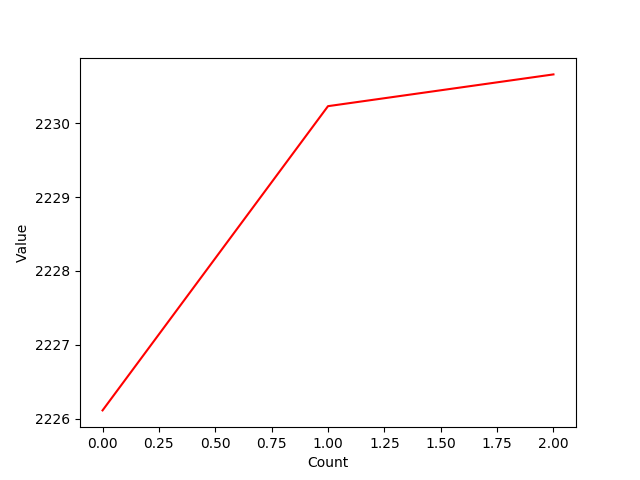
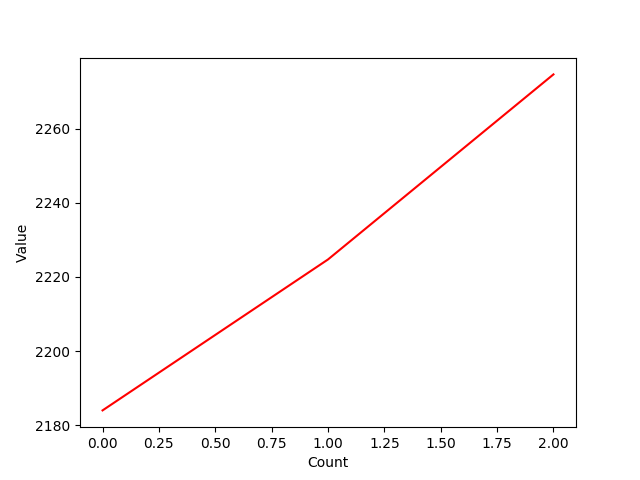
Automated Commision

diff --git a/sequential.py b/sequential.py
@@ -20,7 +20,7 @@ if __name__ == "__main__":
     
     for count in range(3):
         trend = moving_average(timeseries, 3)
-        print(timeseries.raw_datapoint(timeseries.raw_size() - 1) - trend[len(trend) - 1])
+        trend_close_diff = timeseries.raw_datapoint(timeseries.raw_size() - 1) - trend[len(trend) - 1]
         matrix = sampling(trend, 0, 2, STANDARD_SAMPLING_RANGE)
         timeseries.set_sampled_matrix(matrix)
         timeseries.normalize_timeseries()
@@ -32,7 +32,7 @@ if __name__ == "__main__":
                 prediction = rescale(result[i][j], timeseries.minimum(), timeseries.maximum())
                 # compare the distance of the last close price
                 # and the moving average trend line to add bias to the prediction
-        
+                prediction += trend_close_diff
         prediction_matrix.append(prediction)
         raw = timeseries.raw_matrix()
         for i in range(0, len(raw)):
